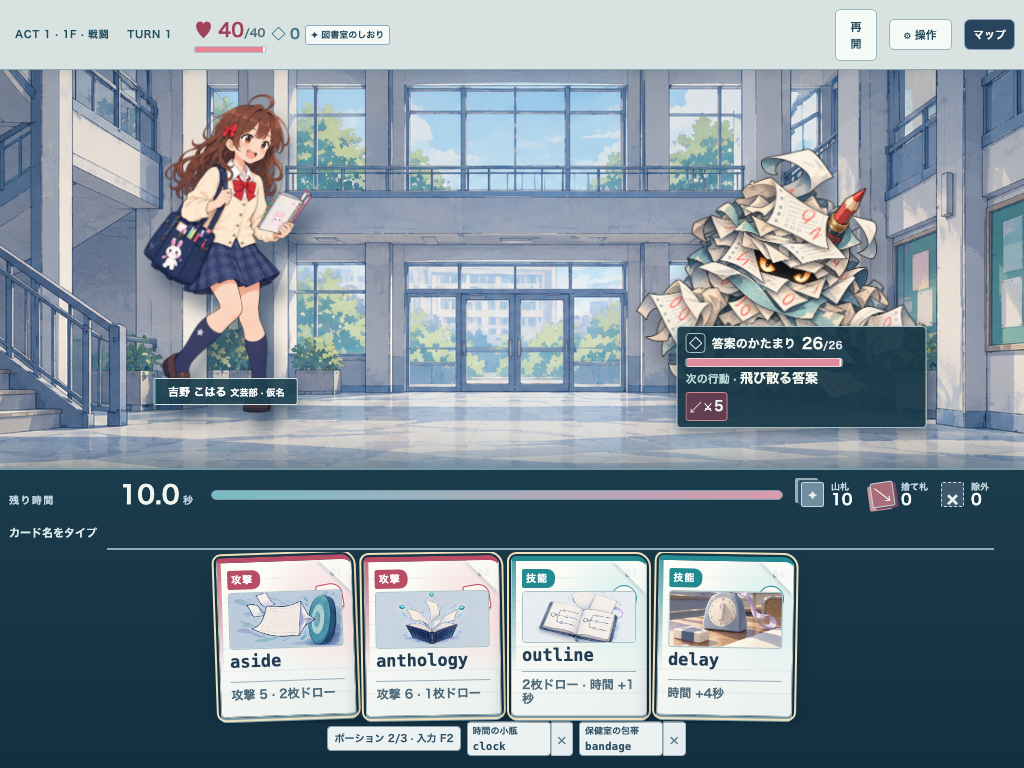
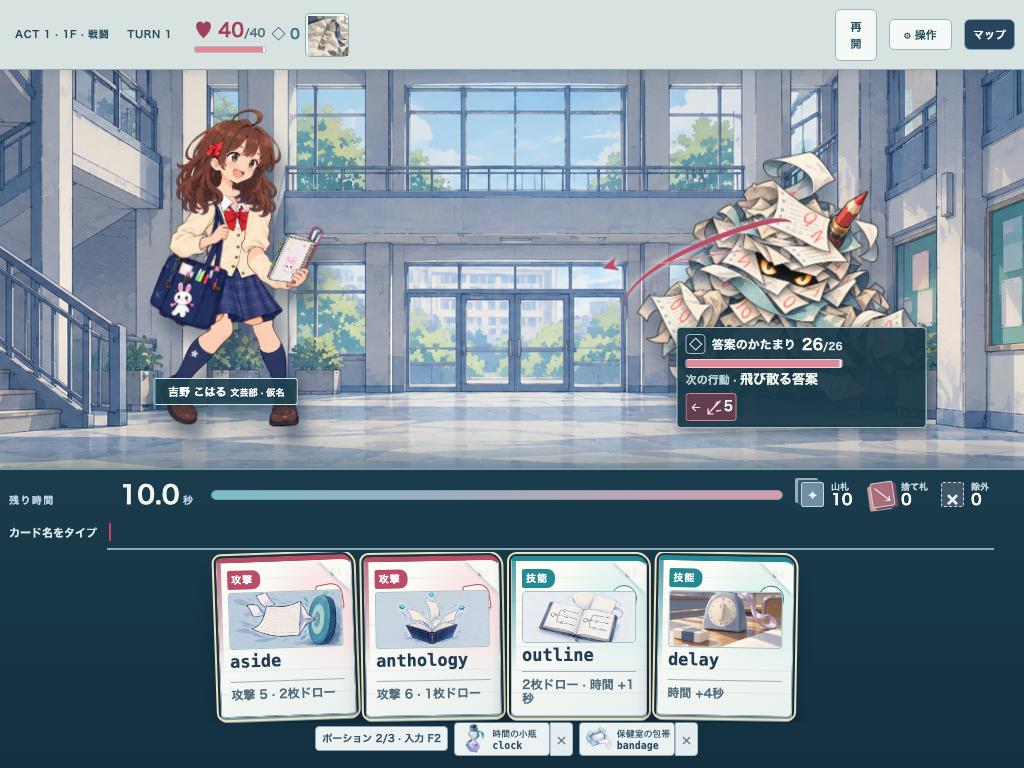
docs: preserve rig card and terminal viewport evidence

diff --git a/docs/qa/issue319-integration.md b/docs/qa/issue319-integration.md
@@ -30,3 +30,11 @@ Combined screenshots are in the task `outputs/` directory under `issue319-integr
 The same code also passed the focused five-enemy interaction case at 1440; `outputs/issue319-integrated-five-enemies-1440.png` shows the repeated test enemy and visible target HP/Intent. `outputs/issue319-integrated-three-allies-{1440,1024}.png` shows a three-ally layout preview: slots two and three are explicit placeholders without battle rules or character art, so this is layout evidence only. The associated live `issue170-five-enemies-v6-1440x900.png` capture was refreshed on this combined branch. These captures do not establish first-time readability or a complete companion system.
 
 Later candidates #334 (four location props; held because its CI found a real Act 2 loss) and #324 (one enemy action painting, current CI failed) remain outside this tree. #320/#335 have been included in follow-up HEAD `655c33f` and are not covered by the core pass above. The added rig is only for 文芸部; the other four clubs still use whole-body candidates, and the remaining 28 card IDs have no candidate painting.
+
+## Follow-up rig/card gate
+
+The first full check of #320/#335 at `12c2ea3` passed lint, typecheck, 130 unit, 168 integration, art check and build. E2E reached 202 passed, 5 failed, 3 intentionally skipped. Four failures were the same 文芸部 live victory mismatch: the rig's `animation:none!important` still applied to the victory portrait after all three Acts had genuinely cleared. The fifth was an old loss test looking for `.hero-art.react` while the new rig conveyed the hit through its separate head expression. The other four clubs' normal 42-location three-Act runs passed.
+
+HEAD `ee93dc5` releases the rig's attributes and images only on victory/loss, retaining the same stage, actor and input elements. The loss test now checks the visible hit expression and HP zero, then verifies the loss portrait, new-run action and fresh rig on the next battle. Four new tests check quiet mode through each special location, reload and return to route. `npm run lint`, `npm run typecheck` and the eleven directly affected E2E cases passed on a dedicated port. Three further capture cases for loss and restored victory at 1024/1440 passed. `outputs/issue319-rig-card-final-{map,battle,reward}-{1024,1440}.png` and `outputs/issue319-rig-card-terminal/` show the updated combined tree. The first complete follow-up check was not a pass; CI on `ee93dc5` is the final full-tree gate and was pending when this entry was written.
+
+Visual inspection confirms five initial 文芸部 hand cards now have candidate images after rig decoding; the image sheet/body seam and consistency still require art review. The hero remains anchored through battle/reward and the portrait changes to the dedicated victory/loss illustration at the terminal. This does not prove real-device acceptance, companions, or final art quality.
